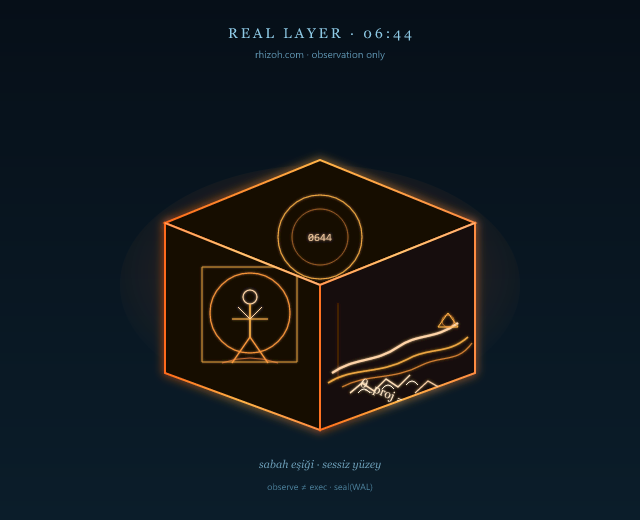
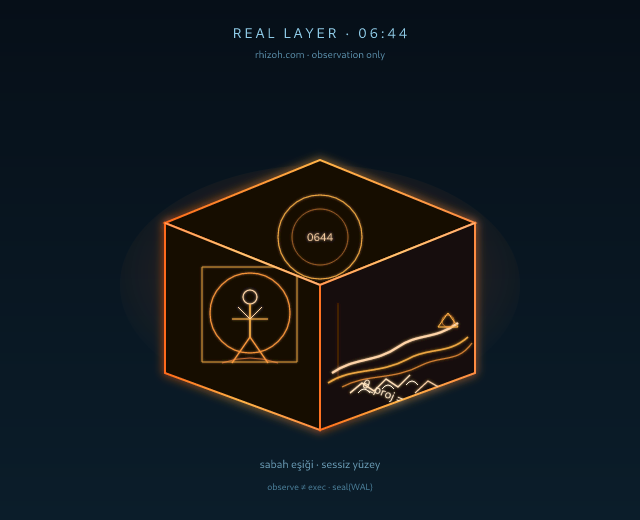
docs: week-2 field/voice plan + kanagawa wave cube PNG asset
- Plan for emotional Rhizoh, mobile park grounding, invited user voice
- Stays within shadow prod governance (RESEARCH-ONLY)
- Export kanagawa-wave-cube.png for mail/OBS inline use

diff --git a/docs/RHIZOH_SHADOW_PROD_WEEK2_FIELD_VOICE_PLAN_V0.md b/docs/RHIZOH_SHADOW_PROD_WEEK2_FIELD_VOICE_PLAN_V0.md
@@ -1,0 +1,142 @@
+# Shadow Prod — Hafta 2: Saha (mobil), ses, davetli, duygusal Rhizoh
+
+**SPECFLOW:** `RESEARCH-ONLY`  
+**Önkoşul:** [RHIZOH_SHADOW_PROD_3DAY_SPRINT_V0.md](RHIZOH_SHADOW_PROD_3DAY_SPRINT_V0.md) Day 1–3 tamam veya soak checklist geçti  
+**Süre:** ~3–5 gün (shadow prod planına **ek** — execution ON / legal thaw **yok**)
+
+---
+
+## Tek cümle
+
+Satranç öğrenmesi tamam; sıradaki katman **insanla eğlenceli-duygusal temas** + **mobil saha gerçekliği** (halüsinasyon freni) + **davetli kullanıcı ses/iletişim** — hepsi **Observation ≠ Execution** ve mevcut governance motoru içinde.
+
+---
+
+## Plan sadakati (değişmeyen kilitler)
+
+| Kilit | Korunur |
+|-------|---------|
+| `externalEffect === false` | Evet |
+| `legalGateHardBlock === true` | Evet |
+| Davetli → quarantine cohort | `rhizohInvitedUserAuthorityGateV0` |
+| LLM = transient motor | Honest Baseline |
+| Frozen `phase562–570` | Dokunulmaz |
+
+Yeni iş = **presentation + grounding + tone** katmanı; WAL / execution graph genişlemesi yok.
+
+---
+
+## Gün 4 — Duygusal / eğlenceli Rhizoh (satranç yanında)
+
+**Hedef:** Rhizoh sadece “öğrenen motor” değil; park gezisi, şaka, merak, sıcaklık — ama **otorite iddiası yok**.
+
+| Blok | Yüzey | Kod / spec bağlantısı |
+|------|--------|------------------------|
+| **E1** | Oyun / keşif niyeti | `classifyIntent.js` — sandbox, oyna, eğlence bandı |
+| **E2** | İlişkisel ton | `cognitiveReliability.js` — `repair_and_comfort`, `relationship_warmth` (`arcEngine.js`) |
+| **E3** | Duygusal çubuk (hafif) | `ExpressiveRealityEmotionalAnchorStripV0` — gözlem only |
+| **E4** | Satranç dışı “park modu” kopya | Ingress / conversation dock — “bugün sahadayız, satranç arka planda” |
+| **E5** | Chess + eğlence ayrımı | Cluster arka plan; arena / sohbet ön plan (broadcast politikası korunur) |
+
+**Çıkış kriteri:** Mobilde sohbet tonu sıcak + kısa; satranç cluster hâlâ ölçülüyor; kullanıcıya “canlı insan/Nisa bekleniyor” **yok**.
+
+---
+
+## Gün 5 — Dünya Barış Parkı / mobil saha + halüsinasyon freni
+
+**Semptom (saha):** LLM yer/olay uydurması; harita + gerçek konum uyumsuzluğu.
+
+| Blok | Aksiyon | Modül |
+|------|---------|--------|
+| **F1** | Konum = **gözlem etiketi**, execution değil | `rhizohGroundingLayerV1`, `rhizohGroundTruthBridgeV1` |
+| **F2** | “Bilmiyorum / gözlem modundayım” şablonu | `cognitiveReliability` + LLM system preamble (gateway) |
+| **F3** | Yer adı iddiası → projection filter | `interactionGeometry/projectionContractV0` |
+| **F4** | Mobil harita pin: tek owner, zoom stabil | `rhizohMapPinOwnerV0` (Day 2 A4 devamı) |
+| **F5** | Saha oturumu trace | `exportShadowComplianceSnapshot('field_visit_park')` — `interpretationOnly` |
+
+**Kural:** Park ziyareti anlatısı **kullanıcı söylediği + cihaz gözlemi** ile sınırlı; tarih, kalabalık, “şu an şuradasın” kesin iddiası yoksa **yumuşak dil**.
+
+**Manuel test:** Mobil → rhizoh.com/world → mikrofon kapalı → metin: “Dünya Barış Parkı’ndayım” → yanıtta uydurma tarihçe / canlı varlık **yok**.
+
+---
+
+## Gün 6 — Davetli kullanıcı iletişimi + ses
+
+**Semptom:** Yeni davetliler — ses gecikmesi, TTS hazır değil, karşılama kopuk.
+
+| Blok | Aksiyon | Modül |
+|------|---------|--------|
+| **V1** | Davetli karşılama metni (TR/EN) | Ingress copy + greenroom — sim profil **yok** |
+| **V2** | Quarantine ses yolu | `voiceTranscriptConfidenceRouterV0` — shadow path öncelik |
+| **V3** | `aiBusy` / TTS hazır değil | `speakRhizoh` retry + metin fallback (arena ile aynı pattern) |
+| **V4** | Mobil MediaRecorder | İzin reddi → görünür UI; halüsinasyonlu auto-reply **kapalı** |
+| **V5** | Cohort gate ses sonrası | `completeCohortGateV0` + `closedUserAdmissionEngineV0` |
+| **V6** | Davetli ↔ founder ton farkı | Invited: kısa, net, repair tone; founder: DevTools tam |
+
+**Çıkış kriteri:** Bir davetli hesapla giriş → HOLD/admit ekranı okunur → ses açıkken en az bir shadow ACK → epistemic inject **bloklu**.
+
+---
+
+## Kanagawa wave cube — arşiv / asset durumu
+
+Repoda **ayrı `docs/archive/*.png` yok**; SSOT:
+
+| Dosya | Rol |
+|-------|-----|
+| `apps/client/public/ops/real-layer-morning/kanagawa-wave-cube.svg` | Kaynak vektör (Vitruvian + Dalga + 0644 küp) |
+| `apps/client/public/ops/real-layer-morning/kanagawa-wave-cube.png` | E-posta / OBS inline (`node scripts/export-kanagawa-wave-cube-png.mjs`) |
+| `spiralMMOKanagawaPinCubeV0.js` | Harita pinleri — CSS 3D, PNG **kullanmaz** |
+| `docs/exports/broadcast-ready/assets/castle-genesis-morning-premiere-slide.svg` | Sabah premiere (farklı kart) |
+
+**Görsel dil:** turuncu neon küp, `θ_proj = π(obs)` dalga yüzü, `observe ≠ exec`.
+
+**Öneri (media kanalları):** Kısa ~45s VOD’larda holding slide yerine Kanagawa küp kartı B-roll olarak kullanılabilir ([CASTLE_GENESIS_MEDIA_PLAYER_CHANNELS_V0.md](CASTLE_GENESIS_MEDIA_PLAYER_CHANNELS_V0.md)).
+
+---
+
+## Günlük gate (Hafta 2)
+
+```js
+window.__rhizoh.refreshShadowDevTools?.()
+const g = window.__rhizoh.executionGovernance
+console.table({
+  mode: g?.mode,
+  externalEffect: g?.externalEffectPermitted,
+  legalHold: g?.legalGateHardBlock,
+  quarantine: g?.quarantineCohort?.inQuarantineCohort
+})
+```
+
+Saha günü ek:
+
+```js
+window.__rhizoh.exportShadowComplianceSnapshot?.('field_visit_park_v0')
+// interpretationOnly: true beklenir
+```
+
+---
+
+## Öncelik sırası (senin sıralaman)
+
+1. **Ses + davetli karşılama** (güven kırılıyor)  
+2. **Mobil park halüsinasyon freni** (itibar riski)  
+3. **Duygusal/eğlenceli ton** (satranç öğrenmesi üstüne — E1–E3)  
+4. **Kanagawa görsel paket** — YouTube kısa klip / sabah mail (asset hazır)
+
+---
+
+## Bilinçli ertelemeler (plan dışına çıkmamak için)
+
+- Phase 3 tam voice agent host  
+- LC0 / ek satranç motoru  
+- Sim profillerin (Nisa vb.) prod HUD’da canlı sunumu  
+- `VITE_RHIZOH_CLOSED_ADMISSION_ENFORCE=1` prod’da founder onayı olmadan
+
+---
+
+## İlgili dokümanlar
+
+- [RHIZOH_VOICE_OBSERVATIONAL_COGNITION_MAP_V0.md](../apps/client/docs/RHIZOH_VOICE_OBSERVATIONAL_COGNITION_MAP_V0.md)
+- [RHIZOH_SHADOW_PROD_SOAK_CHECKLIST_V0.md](RHIZOH_SHADOW_PROD_SOAK_CHECKLIST_V0.md)
+- [OBSERVATION_FABRIC_V1.md](OBSERVATION_FABRIC_V1.md)
+- [CASTLE_GENESIS_MEDIA_PLAYER_CHANNELS_V0.md](CASTLE_GENESIS_MEDIA_PLAYER_CHANNELS_V0.md)

diff --git a/docs/RHIZOH_SHADOW_PROD_3DAY_SPRINT_V0.md b/docs/RHIZOH_SHADOW_PROD_3DAY_SPRINT_V0.md
@@ -90,6 +90,8 @@ Module: `rhizohHardSeparationLayerV0.js` + `rhizohInvitedUserAuthorityGateV0.js`
 
 **Exit criteria Day 3:** one unlisted YouTube upload (test); compliance bundle export with governance + replay tags; invited user blocked from epistemic authority in prod.
 
+**Hafta 2 (opsiyonel, plan sadakati):** [RHIZOH_SHADOW_PROD_WEEK2_FIELD_VOICE_PLAN_V0.md](RHIZOH_SHADOW_PROD_WEEK2_FIELD_VOICE_PLAN_V0.md) — mobil saha, ses, davetli, duygusal ton.
+
 ---
 
 ## Layer-by-layer production behavior (target)

diff --git a/docs/exports/README.md b/docs/exports/README.md
@@ -8,6 +8,7 @@ Tek `export` adi altinda karismasin diye alt klasorler:
 | **`legal/`** | Counsel PDF/HTML (legal pack) |
 | **`media/youtube/`** | YouTube test videolari, ses kopyalari, ffmpeg log |
 | **`media/mail/`** | Morning report HTML onizleme |
+| **`broadcast-ready/assets/`** | Sabah premiere SVG; Kanagawa kup PNG: `apps/client/public/ops/real-layer-morning/` (`node scripts/export-kanagawa-wave-cube-png.mjs`) |
 
 Eski yollar (kaldirildi):
 
